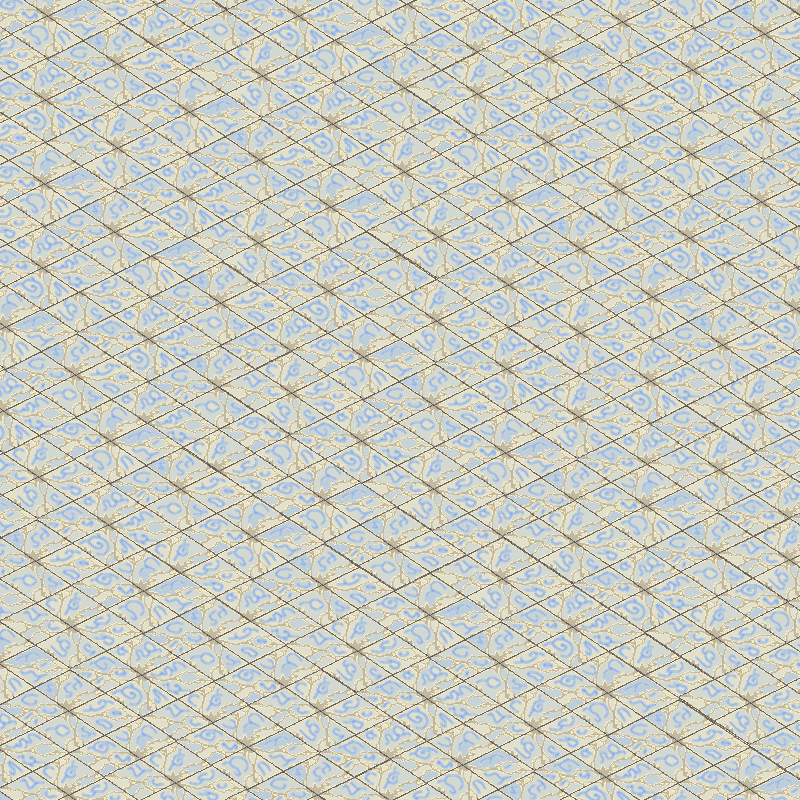
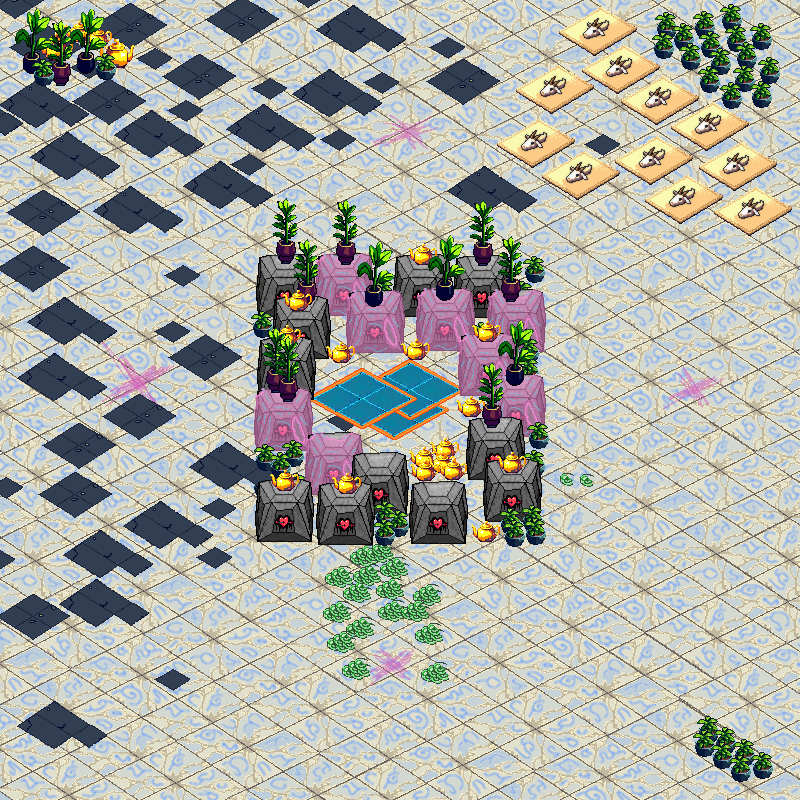
Created in Room2

diff --git a/Level_0.py b/Level_0.py
@@ -2,8 +2,7 @@ from classes import *
 from animate_func import load_animation_frames
 from Level0_minigame1 import minigame_main
 import pygame
-from strategy import example_strategy
-
+from strategy import example_strategy, carusel_strategy
 
 # Размеры экрана
 SCREEN_WIDTH, SCREEN_HEIGHT = 1080, 600
@@ -209,16 +208,109 @@ def create_rooms():
     room2_walls = [
         pygame.Rect(0, 0, 800, 10),  # Верхняя стена
         pygame.Rect(0, 790, 350, 10), # Нижняя стена вверх
+        pygame.Rect(0, 800, 950, 10),
         pygame.Rect(450, 790, 350, 10), # Нижняя стена низ
         pygame.Rect(0, 0, 10, 800),  # Левая стена
         pygame.Rect(790, 0, 10, 350),  # Правая верхняя стена
+        pygame.Rect(800, 0, 10, 1000),
         pygame.Rect(790, 450, 10, 350),  # Правая нижняя стена
     ]
     room2_transitions = [
         {"rect": pygame.Rect(790, 350, 10, 100), "target": "room1", "player_start": (50, 400)},  # Вход из комнаты 1
         {"rect": pygame.Rect(350, 790, 100, 10), "target": "room3", "player_start": (500, 50)},  # Выход вниз
     ]
-    rooms["room2"] = Room(room2_width, room2_height, "assets/rooms/room2.png", room2_walls, room2_transitions)
+    room2_objects = [
+        GameObject('assets/decoration/Group4.png', 266, 253)
+    ]
+    room2_npc = [
+
+    ]
+
+    suura_idle_frames = load_animation_frames("assets/animate_enemy/Suura", 1, "Suura")  # 1 кадра для idle
+    suura_run_frames = load_animation_frames("assets/animate_enemy/Suura", 11, "Suura")  # 24 кадра для run
+    cutted_suura_run_frames = load_animation_frames("assets/animate_enemy/Suura", 1, "Suura")
+
+    burryo_idle_frames = load_animation_frames("assets/animate_enemy/Burryo", 1, "Burryo")  # 1 кадра для idle
+    burryo_run_frames = load_animation_frames("assets/animate_enemy/Burryo", 10, "Burryo")  # 24 кадра для run
+
+    suura_animations = {
+        "idle": suura_idle_frames,
+        "run": cutted_suura_run_frames,
+    }
+
+    burryo_animations = {
+        "idle": burryo_idle_frames,
+        "run": burryo_run_frames,
+    }
+
+    carusel_animations = {
+        "idle": [pygame.image.load("assets/decoration/Group4.png").convert_alpha()],
+        "run": [pygame.image.load("assets/decoration/Group4.png").convert_alpha()]
+    }
+
+    wave1_room2_suurafat = Enemy(pygame.Rect((377, 360, 73, 73)), "assets/animate_enemy/Suura/Suura1.png",
+                                  speed=10, health=7,
+                                  strategy=carusel_strategy,
+                                  animations=carusel_animations, animation_speed=0.09)
+    wave1_room2_suurafat_oppaisword = Weapon(95, 240,
+                                            "assets/weapons/OppaiSword.png", 2)
+    wave1_room2_suura = Enemy(pygame.Rect((100, 100, 0, 0)), "assets/animate_enemy/Suura/Suura1.png",
+                                 speed=2, health=5,
+                                 strategy=example_strategy,
+                                 animations=suura_animations, animation_speed=0.09)
+    wave1_room2_suura_flowswordyellow = Weapon(7, 100,
+                                             "assets/weapons/FlowSwordYellow.png", 33)
+    wave1_room2_burryo = Enemy(pygame.Rect((600, 600, 0, 0)), "assets/animate_enemy/Suura/Suura1.png",
+                              speed=8, health=10,
+                              strategy=example_strategy,
+                              animations=burryo_animations, animation_speed=0.01)
+    wave1_room2_burryo_peruza = Weapon(66, 108,
+                                               "assets/weapons/Peruza.png", 4)
+
+    wave2_room2_losandro1 = Enemy(pygame.Rect((600, 600, 0, 0)), "assets/animate_enemy/Losandro/Losandro1.png",
+                               speed=3, health=6,
+                               strategy=example_strategy,
+                               animations=losandro_animations, animation_speed=0.01)
+    wave2_room2_losandro1_blobswordmode2 = Weapon(100, 150,
+                                       "assets/weapons/Peruza.png", 1)
+    wave2_room2_losandro2 = Enemy(pygame.Rect((600, 600, 0, 0)), "assets/animate_enemy/Losandro/Losandro1.png",
+                                  speed=1, health=6,
+                                  strategy=example_strategy,
+                                  animations=losandro_animations, animation_speed=0.01)
+    wave2_room2_losandro2_totemolebata = Weapon(200, 150,
+                                                  "assets/weapons/TotemoleBata.png", 3)
+    wave2_room2_susu = Enemy(pygame.Rect((377, 360, 73, 73)), "assets/animate_enemy/Suura/Suura1.png",
+                                 speed=10, health=5,
+                                 strategy=carusel_strategy,
+                                 animations=carusel_animations, animation_speed=0.09)
+    wave2_room2_susu_surrodo = Weapon(400, 312,
+                                             "assets/weapons/SurrodoSurrodo.png", 1)
+
+    wave1_room2_suurafat.get_weapon(wave1_room2_suurafat_oppaisword)
+    wave1_room2_suura.get_weapon(wave1_room2_suura_flowswordyellow)
+    wave1_room2_burryo.get_weapon(wave1_room2_burryo_peruza)
+    wave2_room2_losandro1.get_weapon(wave2_room2_losandro1_blobswordmode2)
+    wave2_room2_losandro2.get_weapon(wave2_room2_losandro2_totemolebata)
+    wave2_room2_susu.get_weapon(wave2_room2_susu_surrodo)
+
+    Objects.enemies.append(wave1_room2_suurafat)
+    Objects.enemies.append(wave1_room2_suura)
+    Objects.enemies.append(wave1_room2_burryo)
+    Objects.enemies.append(wave2_room2_losandro1)
+    Objects.enemies.append(wave2_room2_losandro2)
+    Objects.enemies.append(wave2_room2_susu)
+
+    room2_enemies = [
+        [[wave1_room2_suurafat, wave1_room2_suurafat_oppaisword], False],
+        [[wave1_room2_suura, wave1_room2_suura_flowswordyellow], False],
+        [[wave1_room2_burryo, wave1_room2_burryo_peruza], False],
+        [[wave2_room2_losandro1, wave2_room2_losandro1_blobswordmode2], False],
+        [[wave2_room2_losandro2, wave2_room2_losandro2_totemolebata], False],
+        [[wave2_room2_susu, wave2_room2_susu_surrodo], False]
+    ]
+    room2_dialog = ''
+    rooms["room2"] = Room(room2_width, room2_height, "assets/rooms/room2.png", room2_walls, room2_transitions, room2_objects, room2_npc, room2_enemies, room2_dialog)
+
 
     # Комната 3
     room3_width, room3_height = 1000, 1000
@@ -284,7 +376,7 @@ def main():
     hero_hitbox = pygame.Rect(700, 400, 92, 75)
     hero_image = "assets/animate_hero/MairouMotion1.png"
     hero_speed = 10
-    hero_health = 700
+    hero_health = 390
     Objects.hero = Hero(hero_hitbox, hero_image, hero_speed, hero_health,
                         animations, 0.03)
     hero_weapon = Weapon(1, 93, "Weapons/SantaliderSword.png", 7)
@@ -303,11 +395,17 @@ def main():
     cooldown_font = pygame.font.Font(None, 32)
 
     #Волны
-    room1_cleared = False
     wave1_room1 = False
     wave2_room1 = False
     wave3_room1 = False
     wave4_room1 = False
+    room1_cleared = False
+
+    give_room2_equipment = False
+
+    wave1_room2 = True #######
+    wave2_room2 = False
+    wave3_room2 = False
 
     while running:
         # Обновление перезарядки
@@ -343,7 +441,7 @@ def main():
                     result = dialog_box.handle_click(mouse_pos)
                     if current_room == "room1" and (result == 'yes' or result == 'no'):
                         wave1_room1 = True
-                        rooms[current_room].enemies[10][1] = True
+                        rooms[current_room].enemies[0][1] = True
                         Objects.hero.get_targets_to_weapon(rooms[current_room])
                     if current_room == "room1" and rooms[current_room].check_object_click(mouse_pos, camera, "Table.png") and npc.following == True:
                         game_result = minigame_main()
@@ -390,6 +488,29 @@ def main():
                     and not rooms[current_room].enemies[11][1]
                     and not rooms[current_room].enemies[12][1]):
                 room1_cleared = True
+        elif current_room == "room2":
+            if wave1_room2:
+                if not give_room2_equipment:
+                    Objects.hero.health = 390
+                    room2_hero_weapon = Weapon(2, 150,
+                                                   "assets/weapons/BlobsKneghtSwordMode2.png", 3)
+                    Objects.hero.get_weapon(room2_hero_weapon)
+                    give_room2_equipment = True
+
+                wave1_room2 = False
+                rooms[current_room].enemies[0][1] = True
+                rooms[current_room].enemies[1][1] = True
+                rooms[current_room].enemies[2][1] = True
+                Objects.hero.get_targets_to_weapon(rooms[current_room])
+                wave2_room2 = True
+            elif wave2_room2 and not rooms[current_room].enemies[0][1] and not rooms[current_room].enemies[1][1] and not rooms[current_room].enemies[2][1]:
+                wave2_room2 = False
+                rooms[current_room].enemies[3][1] = True
+                rooms[current_room].enemies[4][1] = True
+                rooms[current_room].enemies[5][1] = True
+                Objects.hero.get_targets_to_weapon(rooms[current_room])
+                wave3_room2 = True
+
 
 
 

diff --git a/strategy.py b/strategy.py
@@ -28,3 +28,32 @@ def example_strategy(enemy: Enemy):
         if Objects.hero.is_in_hitbox((x, y)):
             return enemy.attack
     return enemy.go_to_hero
+
+
+def carusel_strategy(enemy: Enemy):
+    length = enemy.weapon.length
+    if enemy.weapon.rotation:
+        return enemy.attack
+    elif Objects.hero is None:
+        return enemy.wait
+    else:
+        enemy.weapon.direction = "right"
+        x, y = enemy.weapon_coords_check()
+        if Objects.hero.is_in_hitbox((x + length, y)) or Objects.hero.is_in_hitbox((x + length * 0.7, y)):
+            return enemy.attack
+        enemy.weapon.direction = "left"
+        x, y = enemy.weapon_coords_check()
+        if Objects.hero.is_in_hitbox((x - length, y)) or Objects.hero.is_in_hitbox((x - length * 0.7, y)):
+            return enemy.attack
+        enemy.weapon.direction = "up"
+        x, y = enemy.weapon_coords_check()
+        if Objects.hero.is_in_hitbox((x, y - length)) or Objects.hero.is_in_hitbox((x, y)) or Objects.hero.is_in_hitbox((x, y - length * 0.7)):
+            return enemy.attack
+        enemy.weapon.direction = "down"
+        x, y = enemy.weapon_coords_check()
+        if Objects.hero.is_in_hitbox((x, y + length)) or Objects.hero.is_in_hitbox((x, y +length * 0.7)):
+            return enemy.attack
+        x, y = enemy.hitbox.center
+        if Objects.hero.is_in_hitbox((x, y)):
+            return enemy.attack
+    return enemy.go_to_hero

diff --git a/classes.py b/classes.py
@@ -55,8 +55,8 @@ class Weapon:
             character = self.targets[i]
             if character[1]:
                 for multiplier in [0, 0.5, 1]:
-                    x_proection = coords[0] + int(self.length * multiplier * math.sin(self.angle))
-                    y_proection = coords[1] + int(self.length * multiplier * math.cos(self.angle))
+                    x_proection = coords[0] + int(self.length * multiplier * math.sin(self.angle * -1 * (math.pi / 180)))
+                    y_proection = coords[1] + int(self.length * multiplier * -1 * math.cos(self.angle * (math.pi / 180)))
                     if character[0].is_in_hitbox((x_proection, y_proection)):
                         character[0].get_damage(self.damage)
                         character[1] = False
